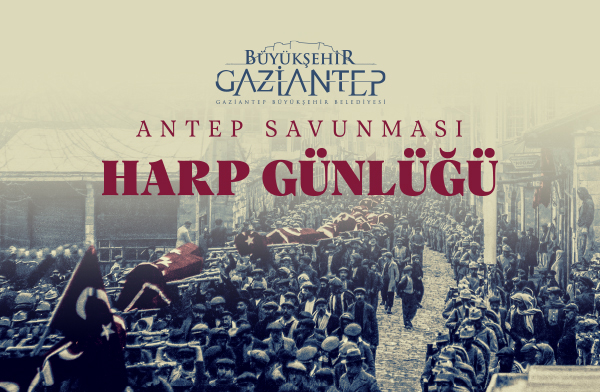
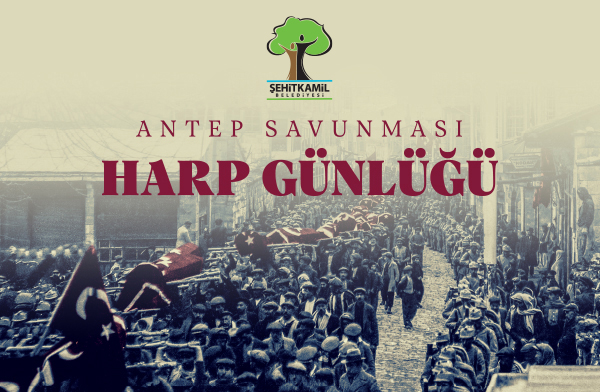
son
son

Changed region(s): [[0.36, 0.0306, 0.66, 0.2755]]

diff --git a/lib/detay2.dart b/lib/detay2.dart
@@ -111,7 +111,7 @@ class HaberDetay extends StatelessWidget {
               Share.share(
                   "Antep Savunması'nda bugün ne oldu?\n" +
                       haber_detay.tarih +
-                      "\nAntep Savunması Harp Günlüğü Uygulama Linki: linkburayagelir.",
+                      "\nAntep Savunması Harp Günlüğü Uygulama Linki: https://play.google.com/store/apps/details?id=com.antep.harpgunlugu \n https://apps.apple.com/tr/app/1601875562",
                   subject: 'Antep Savunması Harp Günlüğü Uygulaması',
                   sharePositionOrigin:
                       box.localToGlobal(Offset.zero) & box.size);
@@ -145,49 +145,19 @@ class HaberDetay extends StatelessWidget {
       body: new Center(
         child: new SingleChildScrollView(
             child: new Container(
-          child: Column(
-            children: [
-              topContent,
-              //Text(haber_detay.id), //Her habere özel id
-              bottomContent,
-              Padding(
-                padding: EdgeInsets.only(left: 5.0, bottom: 40.0, right: 5.0),
-                child: ClipRRect(
-                  borderRadius: BorderRadius.circular(10.0),
-                  child: Image.network(haber_detay.resimyol,
-                      width: 350, fit: BoxFit.fitWidth),
-                ),
+          child: Column(children: [
+            topContent,
+            //Text(haber_detay.id), //Her habere özel id
+            bottomContent,
+            Padding(
+              padding: EdgeInsets.only(left: 5.0, bottom: 40.0, right: 5.0),
+              child: ClipRRect(
+                borderRadius: BorderRadius.circular(10.0),
+                child: Image.network(haber_detay.resimyol,
+                    width: 350, fit: BoxFit.fitWidth),
               ),
-              Wrap(children: [
-                FlatButton(
-                    textColor: Colors.white,
-                    color: Colors.transparent,
-                    onPressed: () {
-                      print("Butona 1 Kez Tıklandı");
-                    },
-                    padding: EdgeInsets.all(10),
-                    child: Wrap(
-                      children: <Widget>[
-                        Icon(Icons.navigate_before),
-                        Text("Önceki Gün", style: TextStyle(fontSize: 20)),
-                      ],
-                    )),
-                FlatButton(
-                    textColor: Colors.white,
-                    color: Colors.transparent,
-                    onPressed: () {
-                      print("Butona 1 Kez Tıklandı");
-                    },
-                    padding: EdgeInsets.all(10),
-                    child: Wrap(
-                      children: <Widget>[
-                        Text("Sonraki Gün", style: TextStyle(fontSize: 20)),
-                        Icon(Icons.navigate_next)
-                      ],
-                    )),
-              ])
-            ],
-          ),
+            ),
+          ]),
         )),
       ),
     );

diff --git a/lib/hakkinda.dart b/lib/hakkinda.dart
@@ -49,7 +49,7 @@ class _UygulamaHakkindaState extends State<UygulamaHakkinda> {
             ),
             new Divider(),
             Text(
-                "Gaziantep'in düşman işgalinden kurtuluşunun 100. yılında Gaziantep Büyükşehir Belediyesi tarafından hazırlatılmıştır.\n(Bu kısma daha fazla detay eklenebilir.)",
+                "Gaziantep'in düşman işgalinden kurtuluşunun 100. yılında Şehitkamil Belediyesi'nin Gaziantep halkına armağanıdır.",
                 style: TextStyle(
                   fontSize: 15.0,
                   fontWeight: FontWeight.w300,

diff --git a/lib/sidemenu.dart b/lib/sidemenu.dart
@@ -87,16 +87,6 @@ class MyDrawer extends StatelessWidget {
               );
             },
           ),
-          new ListTile(
-            title: new Text('Hepsi'),
-            leading: new Icon(Icons.date_range_outlined),
-            onTap: () {
-              Navigator.push(
-                context,
-                MaterialPageRoute(builder: (context) => Hepsi()),
-              );
-            },
-          ),
           new Divider(),
           new ListTile(
             title: new Text('Arama'),
